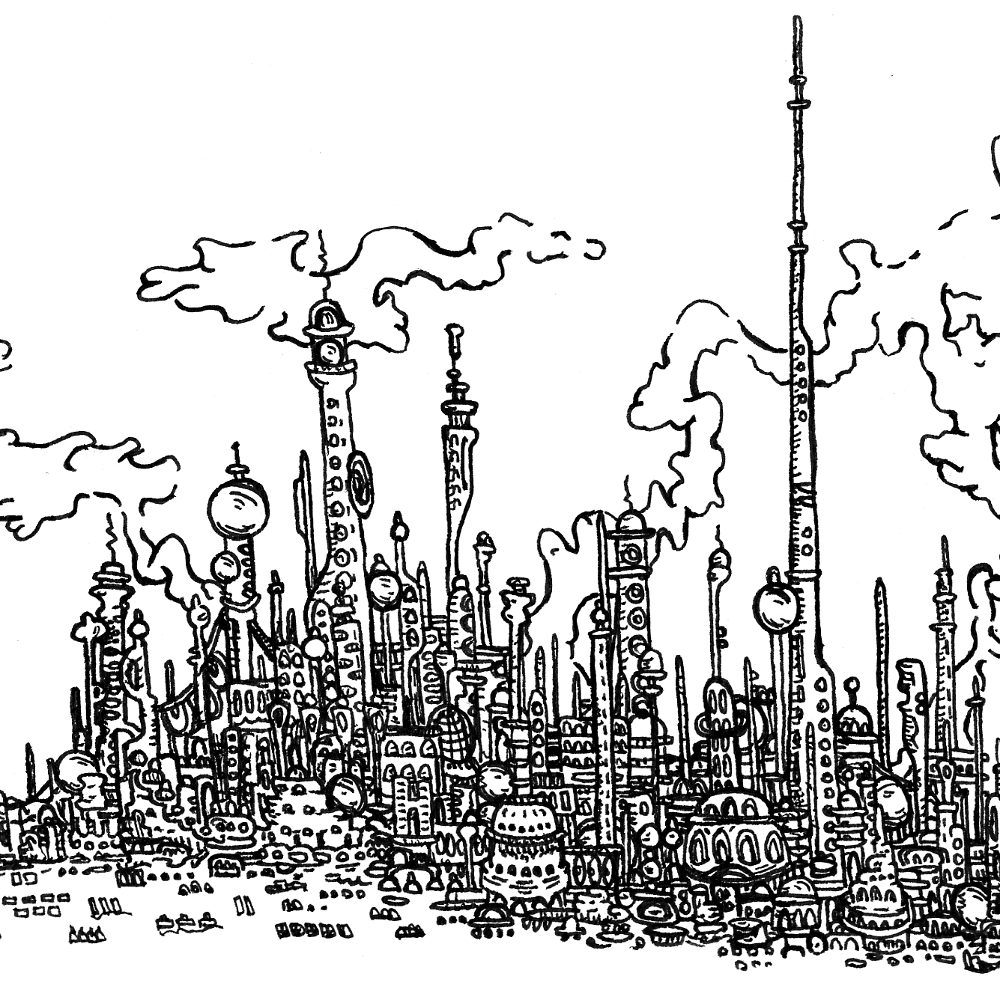
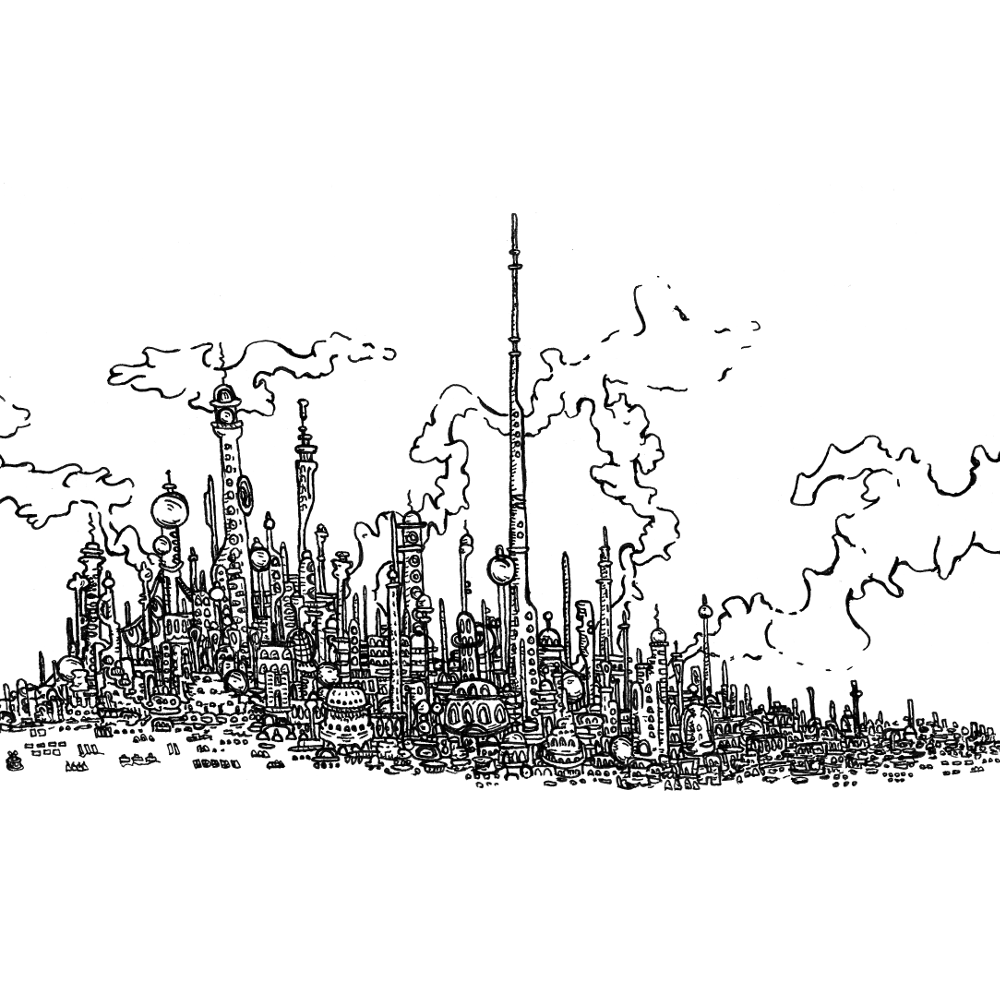
added artwork dimensions and recropped some images

diff --git a/index.html b/index.html
@@ -24,67 +24,73 @@
 	<div class="piece">
 		<h1>Skeleton Cityscape</h1>
 		<img src="images/skeleton_cityscape_kt.png" alt="a drawing of vancouver" />
-		<p>Listen close and don't be stoned</p>
+		<p>19.5 x 24.0. . . pen on paper</p>
 	</div> <!-- piece class -->
 
 	<div class="piece">
 		<h1>Watch Your Step</h1>
 		<img src="images/watch_your_step_kt.jpg" alt="a painting of a bus interior" />
-		<p>Listen close and don't be stoned</p>
+		<p>92.0 x 92.0. . . acrylic on canvas</p>
 	</div> <!-- piece class -->
 
 	<div class="piece">
 		<h1>Harbourview Park</h1>
 		<img src="images/harbourview_park_kt.png" alt="a nonrepresentational drawing" />
-		<p>Listen close and don't be stoned</p>
+		<p>15.0 x 20.5. . . pen on paper</p>
 	</div> <!-- piece class -->
 
 	<div class="piece">
 		<h1>Money Flower</h1>
 		<img src="images/money_flower_kt.png" alt="a drawing of a flower with leaves of cash" />
-		<p>Listen close and don't be stoned</p>
+		<p>20.5 x 27.5. . . pen on paper</p>
 	</div> <!-- piece class -->
 
 	<div class="piece">
 		<h1>Money Tree</h1>
 		<img src="images/money_tree_kt.png" alt="a drawing of a tree with leaves of cash" />
-		<p>Listen close and don't be stoned</p>
+		<p>20.5 x 27.5. . . pen on paper</p>
+	</div> <!-- piece class -->
+
+	<div class="piece">
+		<h1>Pearl</h1>
+		<img src="images/pearl_kt.jpg" alt="a watercolour of a pearl surrounded by a floral arrangement" />
+		<p>30.0 x 20.5. . . watercolour in sketchbook</p>
 	</div> <!-- piece class -->
 
 	<div class="piece">
 		<h1>The Overload</h1>
 		<img src="images/the_overload_kt.png" alt="a nonrepresentational drawing" />
-		<p>Listen close and don't be stoned</p>
+		<p>15.0 x 20.5. . . pen on paper</p>
 	</div> <!-- piece class -->
 
 	<div class="piece">
 		<h1>City</h1>
 		<img src="images/city_kt.png" alt="a drawing of a futuristic city" />
-		<p>Listen close and don't be stoned</p>
+		<p>20.5 x 12.0. . . pen on paper</p>
 	</div> <!-- piece class -->
 
 	<div class="piece">
 		<h1>Flora and Flesh</h1>
 		<img src="images/flora_and_flesh_kt.png" alt="a nonrepresentational drawing" />
-		<p>Listen close and don't be stoned</p>
+		<p>20.5 x 27.5. . . pen on paper</p>
 	</div> <!-- piece class -->
 
 	<div class="piece">
 		<h1>Flower Neptune</h1>
 		<img src="images/flower_neptune_kt.png" alt="a drawing of a flower" />
-		<p>Listen close and don't be stoned</p>
+		<p>18.5 x 20.5. . . pen on paper</p>
 	</div> <!-- piece class -->
 
 	<div class="piece">
 		<h1>City on a Swirl</h1>
 		<img src="images/city_on_a_swirl_kt.jpg" alt="a drawing of a city resting on a swirling colourful form" />
-		<p>Listen close and don't be stoned</p>
+		<p>20.5 x 10.5. . . pen and watercolour on card</p>
 	</div> <!-- piece class -->
 
 	<div class="piece">
 		<h1>Noodle Trunk</h1>
 		<img src="images/noodle_trunk_kt.png" alt="a surreal drawing of a tree-like form." />
-		<p>Listen close and don't be stoned</p>
+		<p>15.0 x 20.5. . . pen on paper</p>
 	</div> <!-- piece class -->
 
 

diff --git a/styles.css b/styles.css
@@ -25,6 +25,8 @@ header>h1{
 
 .piece>img{
 	width: 100%;}
+.piece>p{
+	font-style: italic;}
 
 #credits{
 	margin: 0em;
